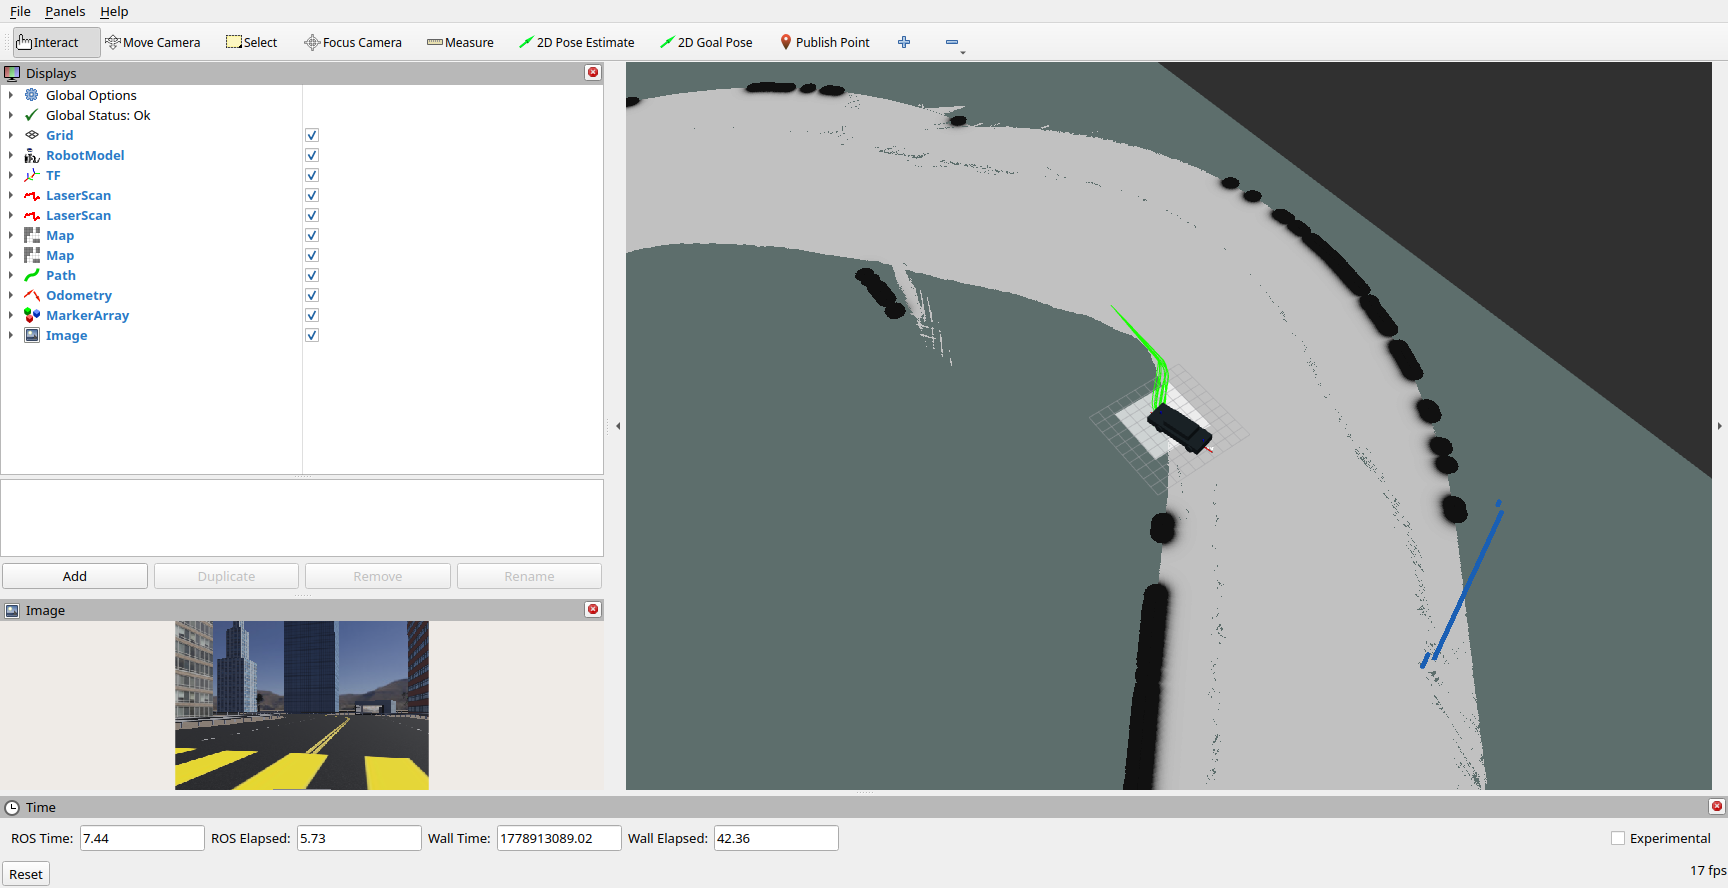
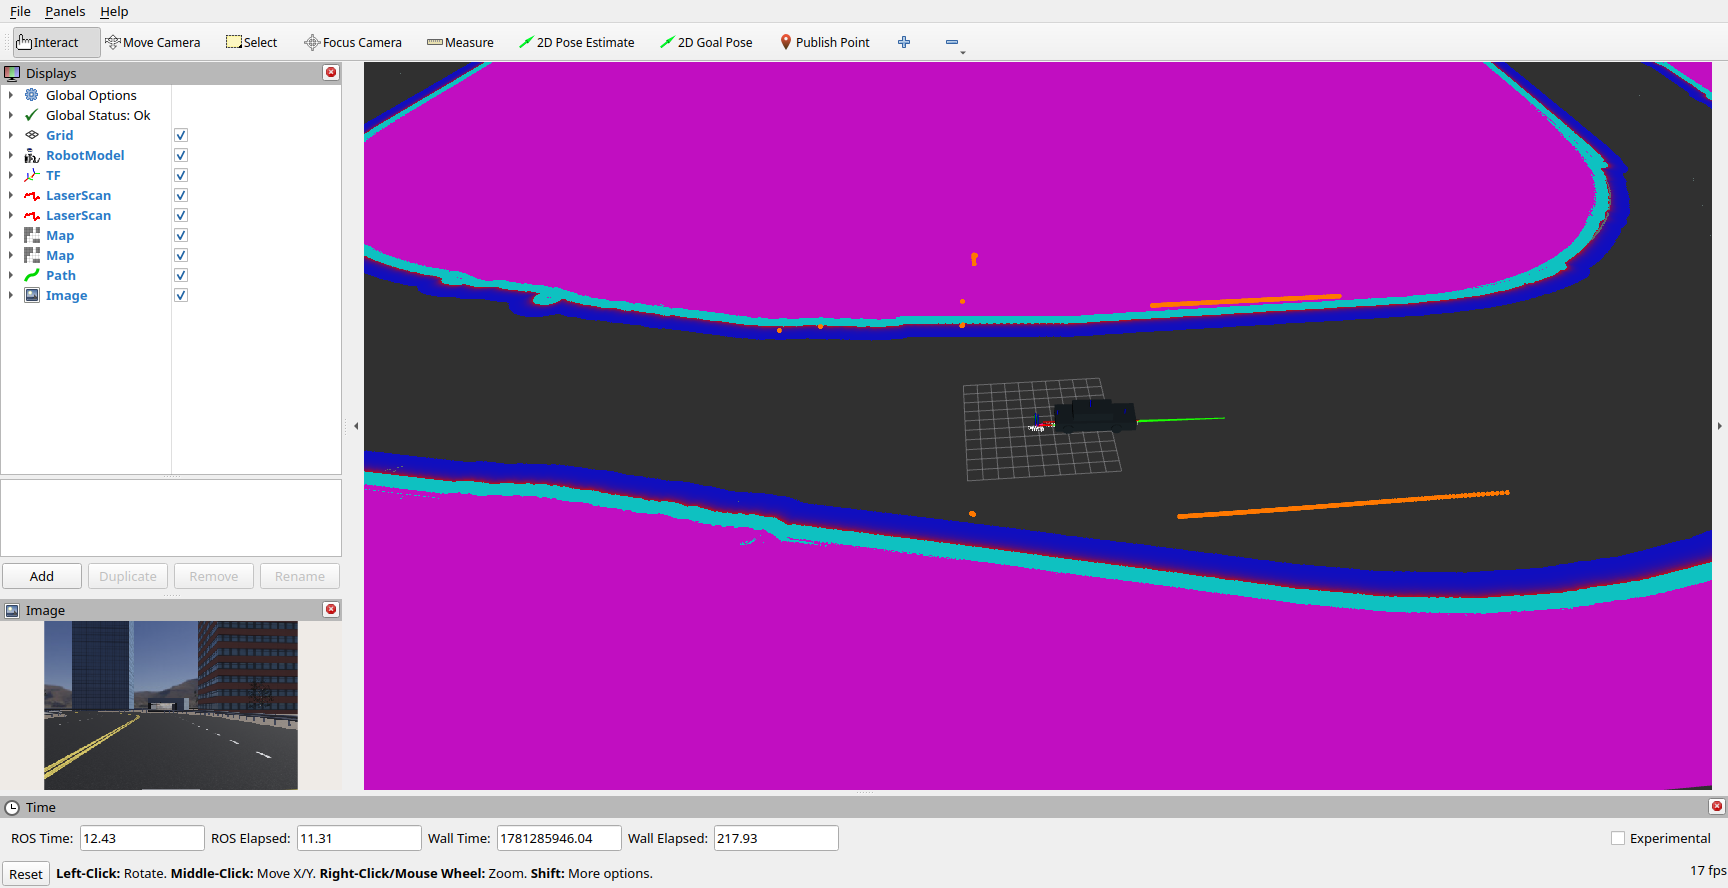
Refactor code structure for improved readability and maintainability

diff --git a/launch/navigation2_launch.py b/launch/navigation2_launch.py
@@ -47,7 +47,6 @@ def generate_launch_description():
     use_rviz = LaunchConfiguration('rviz')
     launch_webots = LaunchConfiguration('launch_webots')
     localization = LaunchConfiguration('localization')
-    invert_steering = LaunchConfiguration('invert_steering')
     launch_without_webots = PythonExpression([
         "'", launch_webots, "' != 'true'"
     ])
@@ -415,7 +414,7 @@ def generate_launch_description():
         parameters=[{
             'use_sim_time': use_sim_time,
             'wheelbase': 2.94,
-            'invert_steering': invert_steering,
+            'invert_steering': True,
             'input_topic': '/cmd_vel',
             'output_topic': '/cmd_ackermann'
         }],
@@ -429,7 +428,7 @@ def generate_launch_description():
         parameters=[{
             'use_sim_time': use_sim_time,
             'wheelbase': 2.94,
-            'invert_steering': invert_steering,
+            'invert_steering': True,
             'input_topic': '/cmd_vel',
             'output_topic': '/cmd_ackermann'
         }],
@@ -527,11 +526,6 @@ def generate_launch_description():
             default_value='gps',
             choices=['gps', 'amcl', 'odom'],
             description='Localization mode: gps, amcl, or odom'
-        ),
-        DeclareLaunchArgument(
-            'invert_steering',
-            default_value='true',
-            description='Invert Ackermann steering angle for Webots Tesla steering convention'
         ),
         webots_group,
         navigation_without_webots_group,

diff --git a/webots_ros2_tesla_slam/lane_follower.py b/webots_ros2_tesla_slam/lane_follower.py
@@ -27,7 +27,7 @@ from rclpy.qos import qos_profile_sensor_data, QoSReliabilityPolicy
 from rclpy.node import Node
 
 CONTROL_COEFFICIENT = 0.0005
-TARGET_SPEED_KMH = 5.0
+TARGET_SPEED_KMH = 20.0
 KMH_TO_MPS = 1.0 / 3.6
 
 

diff --git a/README.md b/README.md
@@ -57,59 +57,65 @@ source install/setup.bash
 
 ## Usage
 
-**Launch only Tesla in Webots:**
+### Launch Tesla in Webots
+
 ```bash
 ros2 launch webots_ros2_tesla_slam tesla_webots_launch.py
 ```
 
-**Launch Cartographer SLAM:**
+Available parameters:
+
+| Parameter            | Default           | Description                                                                       |
+| -------------------- | ----------------- | --------------------------------------------------------------------------------- |
+| `world`              | `tesla_world.wbt` | Choose one of the world files from the `/webots_ros2_tesla_slam/worlds` directory |
+| `use_sim_time`       | `true`            | Use simulation time if true                                                       |
+| `lane_follower`      | `true`            | Launch the lane follower if true                                                  |
+| `static_map_to_odom` | `false`           | Publish a static `map` to `odom` transform if true                                |
+
+### Launch Cartographer SLAM
+
 ```bash
 ros2 launch webots_ros2_tesla_slam slam_launch.py rviz:=true
 ```
+
 When Webots is launched by this file, RViz starts after the Tesla controller is connected.
 
-**Launch Navigation2:**
+Available parameters:
+
+| Parameter       | Default           | Description                                                                       |
+| --------------- | ----------------- | --------------------------------------------------------------------------------- |
+| `world`         | `tesla_world.wbt` | Choose one of the world files from the `/webots_ros2_tesla_slam/worlds` directory |
+| `use_sim_time`  | `true`            | Use simulation time if true                                                       |
+| `rviz`          | `false`           | Launch RViz for SLAM if true                                                      |
+| `launch_webots` | `true`            | Launch Webots Tesla with `lane_follower` enabled if true                          |
+
+### Launch Navigation2
+
 ```bash
 ros2 launch webots_ros2_tesla_slam navigation2_launch.py rviz:=true
 ```
+
 When Webots is launched by this file, RViz starts after the Tesla controller is connected.
 
-**Launch Navigation2 with a specific localization mode:**
+Launch Navigation2 with a specific localization mode:
+
 ```bash
 ros2 launch webots_ros2_tesla_slam navigation2_launch.py localization:=gps rviz:=true
 ros2 launch webots_ros2_tesla_slam navigation2_launch.py localization:=amcl rviz:=true
 ros2 launch webots_ros2_tesla_slam navigation2_launch.py localization:=odom rviz:=true
 ```
 
-**Available parameters for `tesla_webots_launch.py`:**
+Available parameters:
 
-| Parameter | Default | Description |
-|-----------|---------|-------------|
-| `world` | `tesla_world.wbt` | Choose one of the world files from `/webots_ros2_tesla_slam/worlds` directory |
-| `use_sim_time` | `true` | Use simulation time if true |
-| `lane_follower` | `true` | Launch the lane follower if true |
-| `static_map_to_odom` | `false` | Publish a static `map` to `odom` transform if true |
-
-**Available parameters for `slam_launch.py`:**
-
-| Parameter | Default | Description |
-|-----------|---------|-------------|
-| `world` | `tesla_world.wbt` | Choose one of the world files from `/webots_ros2_tesla_slam/worlds` directory |
-| `use_sim_time` | `true` | Use simulation time if true |
-| `rviz` | `false` | Launch RViz for SLAM if true |
-| `launch_webots` | `true` | Launch Webots Tesla with `lane_follower` enabled if true |
-
-**Available parameters for `navigation2_launch.py`:**
-
-| Parameter | Default | Description |
-|-----------|---------|-------------|
-| `world` | `tesla_world.wbt` | Choose one of the world files from `/webots_ros2_tesla_slam/worlds` directory |
-| `use_sim_time` | `true` | Use simulation time if true |
-| `map` | `city_map.yaml` | Full path to the map yaml file for Nav2 |
-| `rviz` | `false` | Launch RViz for Navigation2 if true |
-| `launch_webots` | `true` | Launch Webots Tesla with `lane_follower` disabled if true |
-| `localization` | `gps` | Localization mode: `gps`, `amcl`, or `odom` |
-| `invert_steering` | `true` | Invert Ackermann steering angle for the Webots Tesla steering convention |
+| Parameter         | Default           | Description                                                                       |
+| ----------------- | ----------------- | --------------------------------------------------------------------------------- |
+| `world`           | `tesla_world.wbt` | Choose one of the world files from the `/webots_ros2_tesla_slam/worlds` directory |
+| `use_sim_time`    | `true`            | Use simulation time if true                                                       |
+| `map`             | `city_map.yaml`   | Full path to the map yaml file for Nav2                                           |
+| `rviz`            | `false`           | Launch RViz for Navigation2 if true                                               |
+| `launch_webots`   | `true`            | Launch Webots Tesla with `lane_follower` disabled if true                         |
+| `localization`    | `gps`             | Localization mode: `gps`, `amcl`, or `odom`                                       |
+| `invert_steering` | `true`            | Invert Ackermann steering angle for the Webots Tesla steering convention          |
 
 The `gps` mode is the default navigation mode and uses GPS, IMU, wheel odometry, `navsat_transform`, and dual EKF filters. The `amcl` mode uses the saved map and a merged front/rear laser scan. The `odom` mode keeps `map` and `odom` aligned with a static transform and is intended for simple debugging or demonstrations.
 
@@ -164,33 +170,46 @@ webots_ros2_tesla_slam/
 
 <img src="assets/webots_simulation.gif" alt="Webots simulation with Tesla Model 3">
 
-*Webots simulation of Tesla Model 3 showing LiDAR sensors (front and rear)*
+*Webots simulation of the Tesla Model 3 showing LiDAR sensors (front and rear) and GPS, IMU mounted on top*
 
 </div>
 
 </details>
 
 <details>
-<summary>🗺️ Click to see RViz while building map with Cartographer</summary>
+<summary>🗺️ Click to see Cartographer SLAM in RViz</summary>
 
 <div align="center">
 
 <img src="assets/rviz_cartographer.png" alt="RViz visualization during Cartographer SLAM mapping">
 
-*RViz interface during SLAM mapping using Cartographer algorithm - real-time map building and robot pose estimation*
+*RViz during Cartographer SLAM - real-time map building and robot pose estimation*
 
 </div>
 
 </details>
 
 <details>
-<summary>🗺️ Click to see generated occupancy map</summary>
+<summary>🗺️ Click to see raw Cartographer map output</summary>
 
 <div align="center">
 
-<img src="assets/cartographer_map.png" alt="Occupancy map built by Cartographer">
+<img src="assets/cartographer_map_raw.png" alt="Raw occupancy map generated by Cartographer">
 
-*Example of the occupancy grid map generated by Cartographer SLAM*
+*Raw occupancy grid generated by Cartographer before post-processing*
+
+</div>
+
+</details>
+
+<details>
+<summary>🧹 Click to see post-processed map</summary>
+
+<div align="center">
+
+<img src="assets/cartographer_map_postprocessed.png" alt="Post-processed occupancy map">
+
+*Post-processed occupancy grid used by Navigation2*
 
 </div>
 